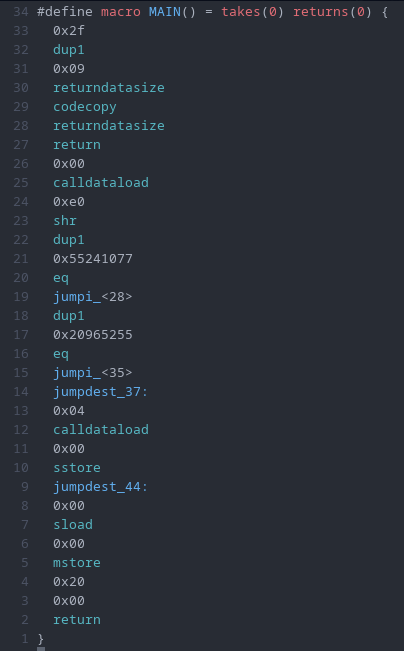
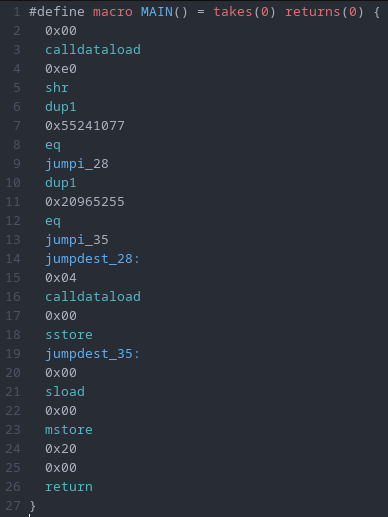
update jump

diff --git a/src/formatter.rs b/src/formatter.rs
@@ -65,6 +65,7 @@ pub fn to_huff(parsed: &mut Parsed) -> String {
                                 };
 
                                 if let Some(dest) = parsed.jt.jump.get(&chunk.pc) {
+                                    // if current pc has a parsed dest
                                     if let Some(..) = parsed.sb.get(i - 1) {
                                         if parsed.jt.jumpdest.get(dest).is_some() {
                                             // let mut out = String::from("jump_");
@@ -79,7 +80,8 @@ pub fn to_huff(parsed: &mut Parsed) -> String {
                                             out
                                         }
                                     } else {
-                                        oc.as_str().to_ascii_lowercase()
+                                        // oc.as_str().to_ascii_lowercase()
+                                        unreachable!("Jump without dest at pc {}", &chunk.pc);
                                     }
                                 } else {
                                     // panic!("{} without location at pc {}", jump_type, chunk.pc);
